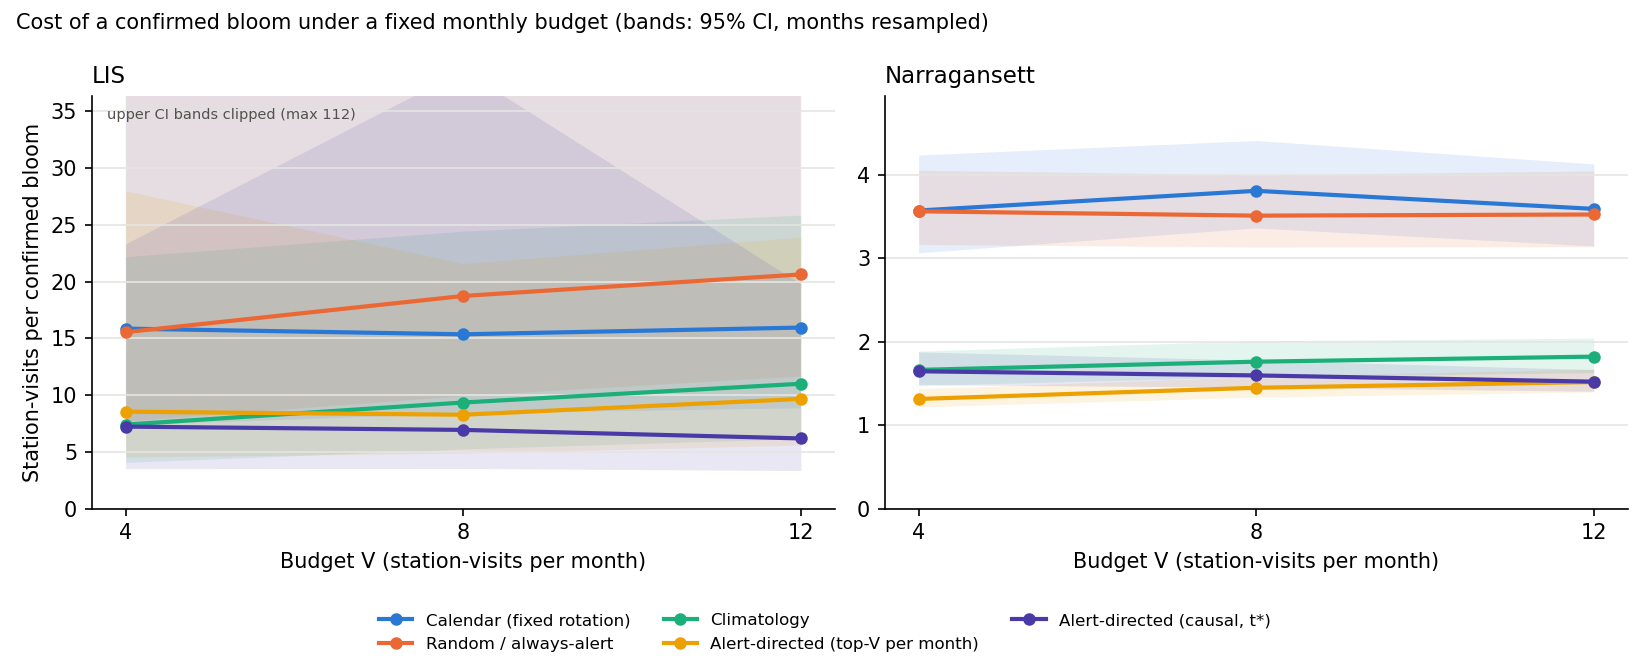
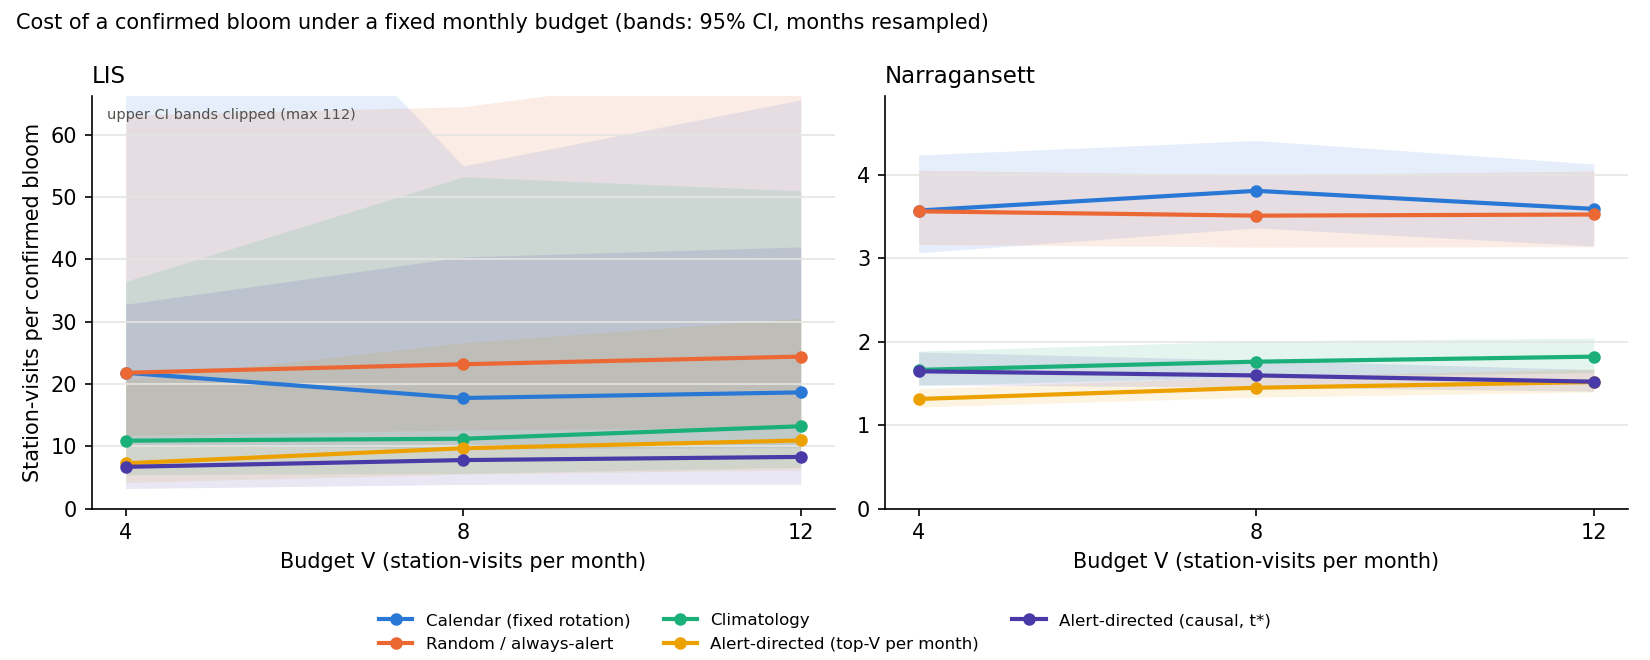
Make the lab-consistent label (S1) the default; re-run the README headline chain
locked_pipeline, final_evaluation_threshold_sweep, station_specific_models and
rolling_origin_cv now default to data/hab_features_tidal_S1.csv;
HAB_FEATURES_CSV=data/hab_features_tidal.csv reproduces the sensor label.
Gate: default AUC 0.8036 (31/65 TP), env run 0.8150. Old outputs archived to
data/archive_sensor_label/ (gitignored). Canonical figures regenerated.

Re-runs on S1: pooled 21-day rolling CV AUC 0.852 -> 0.772; frozen t*=0.35
POD 0.791, precision 0.114; the pre-registered POD>=0.8 rule now selects
t*=0.20 (left as an open decision; deploy keeps 0.35); point of no return
still absent (analogue peak 0.42). IEC method switched 10200H -> EPA 445.0 in
2017-18, before the 2020-25 transfer window. Prereg sections 14b and 15 (live
season: lab label, sensor inputs).

Claude-Session: https://claude.ai/code/session_019qugKZoFUV2rvdqeagrEFM

Changed region(s): [[0.0309, 0.2424, 0.4945, 0.7576], [0.0309, 0.1212, 0.34, 0.2727], [0.3709, 0.2727, 0.4945, 0.3333]]

diff --git a/src/models/locked_pipeline.py b/src/models/locked_pipeline.py
@@ -6,7 +6,8 @@ final_evaluation_threshold_sweep.py so that evaluation, deployment, and any
 future script share one implementation instead of copies.
 
 Locked spec:
-  data    : data/hab_features_tidal.csv
+  data    : data/hab_features_tidal_S1.csv (lab-consistent label, default since 2026-09-23;
+            the raw-fluorometer original is data/hab_features_tidal.csv)
             + percent_saturation merged from data/raw/deep_wq_extra/deep_wq_S_*.csv
             + max_gust_3d merged from data/gust_features_daily.csv (date-only join;
               regional wind signal, deliberately not per-station)
@@ -31,10 +32,11 @@ import pandas as pd
 from sklearn.linear_model import LogisticRegression
 from sklearn.preprocessing import StandardScaler
 
-# Label rebuild (notes/LABEL_REBUILD_PREREG.md): HAB_FEATURES_CSV points every locked
-# script at a rebuilt feature file, and HAB_OUT_TAG suffixes their outputs so the
-# canonical files are never overwritten. Unset, both leave everything unchanged.
-BASE_CSV = os.environ.get("HAB_FEATURES_CSV", "data/hab_features_tidal.csv")
+# Label rebuild (notes/LABEL_REBUILD_PREREG.md). Since 2026-09-23 the default input is the
+# lab-consistent S1 file written by src/models/label_rebuild.py. The original raw-fluorometer
+# file is reproducible with HAB_FEATURES_CSV=data/hab_features_tidal.csv; HAB_OUT_TAG
+# suffixes outputs so a non-default run never overwrites the canonical files.
+BASE_CSV = os.environ.get("HAB_FEATURES_CSV", "data/hab_features_tidal_S1.csv")
 OUT_TAG = os.environ.get("HAB_OUT_TAG", "")
 
 

diff --git a/src/deploy/daily_inference.py b/src/deploy/daily_inference.py
@@ -15,10 +15,14 @@ For a target date D:
      selected out-of-sample on 2020-2022; see warning_operating_point.py).
   5. Writes data/daily_predictions.csv for the dashboard.
 
-Operating characteristics at t*=0.35 (out-of-sample test 2023-2025):
-  POD 0.875 [0.750, 0.962] | FAR 0.875 | precision 0.125 [0.077, 0.172]
+Operating characteristics at t*=0.35 (out-of-sample test 2023-2025, lab-consistent
+label S1 since 2026-09-23; warning_robustness.py):
+  POD 0.791 [0.636, 0.906] | FAR 0.886 | precision 0.114 [0.063, 0.163]
 An alert means: sample this station within the next 3 weeks. Roughly 1 in
-8 alerts precedes a verified exceedance, a 2.7x lift over the base rate.
+9 alerts precedes a verified exceedance, a 2.7x lift over the 4.2% base rate.
+(On the original sensor label: POD 0.875, precision 0.125. Re-applying the
+pre-registered POD >= 0.8 selection rule on S1 picks t*=0.20, not 0.35; the
+frozen 0.35 is kept here pending that decision, see notes/LABEL_REBUILD_PREREG.md.)
 
 Aeration scoring from the previous version is intentionally omitted until
 the intervention framework rerun on corrected data is complete.

diff --git a/src/models/final_evaluation_threshold_sweep.py b/src/models/final_evaluation_threshold_sweep.py
@@ -38,8 +38,10 @@ _ap.add_argument('--preds-out', default=None,
                  help='where to dump per-row test predictions '
                       '(default data/test_predictions{tag}.csv)')
 # Label rebuild (notes/LABEL_REBUILD_PREREG.md). Defaults leave every path unchanged.
-_ap.add_argument('--input', default='data/hab_features_tidal.csv',
-                 help='feature file; the rebuilt series are data/hab_features_tidal_S*.csv')
+_ap.add_argument('--input',
+                 default=__import__('os').environ.get('HAB_FEATURES_CSV', 'data/hab_features_tidal_S1.csv'),
+                 help='feature file (default: lab-consistent S1; the raw-fluorometer original '
+                      'is data/hab_features_tidal.csv)')
 _ap.add_argument('--label-col', default=None,
                  help='use this prebuilt column as the label instead of bloom_28d (S3)')
 _ap.add_argument('--tag', default='',

diff --git a/src/models/rolling_origin_cv.py b/src/models/rolling_origin_cv.py
@@ -30,6 +30,7 @@ Run from repo root:
 
 import argparse
 import glob
+import os
 import warnings
 warnings.filterwarnings('ignore', category=UserWarning)
 
@@ -83,8 +84,11 @@ def load_percent_saturation():
 
 
 def build_dataset(clean_labels=False, sustain_window=14, horizon=28):
-    print("Loading data/hab_features_tidal.csv...")
-    df = pd.read_csv("data/hab_features_tidal.csv")
+    # Default: lab-consistent S1 (notes/LABEL_REBUILD_PREREG.md); the raw-fluorometer
+    # original is HAB_FEATURES_CSV=data/hab_features_tidal.csv.
+    src = os.environ.get("HAB_FEATURES_CSV", "data/hab_features_tidal_S1.csv")
+    print(f"Loading {src}...")
+    df = pd.read_csv(src)
     df['date'] = pd.to_datetime(df['date'])
 
     if 'percent_saturation' not in df.columns:

diff --git a/src/models/station_specific_models.py b/src/models/station_specific_models.py
@@ -44,9 +44,10 @@ FIXED_THRESH = 0.60
 # ---------------------------------------------------------------------------
 # 1. Load + merge sal_lag2/3/4
 # ---------------------------------------------------------------------------
-# Label rebuild: same switches as src/models/locked_pipeline.py (unset = unchanged)
+# Label rebuild: same switches as src/models/locked_pipeline.py. Default is the
+# lab-consistent S1 file; HAB_FEATURES_CSV=data/hab_features_tidal.csv gives the original.
 import os
-_IN = os.environ.get('HAB_FEATURES_CSV', 'data/hab_features_tidal.csv')
+_IN = os.environ.get('HAB_FEATURES_CSV', 'data/hab_features_tidal_S1.csv')
 _TAG = os.environ.get('HAB_OUT_TAG', '')
 print(f"Loading {_IN}...")
 df = pd.read_csv(_IN)

diff --git a/notes/LABEL_REBUILD_PREREG.md b/notes/LABEL_REBUILD_PREREG.md
@@ -326,3 +326,55 @@ climatology the model's point lift is now nearly equal (1.57 against 1.50, inter
 overlapping), and its AUC is now slightly *below* climatology's. Honest statement: the
 frozen model transfers to a second agency's lab record better than chance, and no better
 than a station-by-month calendar.
+
+## 14b. Defaults switched to S1, and the remaining re-runs (2026-09-23)
+
+**Defaults.** `locked_pipeline.py`, `final_evaluation_threshold_sweep.py`,
+`station_specific_models.py` and `rolling_origin_cv.py` now read
+`data/hab_features_tidal_S1.csv` by default. `HAB_FEATURES_CSV=data/hab_features_tidal.csv`
+reproduces the sensor label.
+
+- Gate: the default run gives AUC 0.8036 and 31 TP of 65 at 0.60 (S1). The env-var run gives
+  0.8150 (the original).
+- Every overwritten canonical output was first copied to `data/archive_sensor_label/` (36 files).
+- The canonical `reference_baselines`, `decision_value` and `lr_geometry_summary` are identical to
+  their `_S1` copies (max difference 0), and so is the IEC primary row (lift 1.571).
+
+| Result | Sensor label (archived) | S1 (now default) |
+|---|---|---|
+| **Rolling-origin CV, 21 d** (`rolling_origin_cv.py --horizon 21`), README headline | pooled AUC **0.852**, 4,040 rows / 156 events, 2015-2025 | pooled AUC **0.772**, 3,653 rows / 121 events, 2016-2025 (2015 fold skipped: too few validation positives) |
+| Rolling-origin CV, 28 d (default) | not comparable (the archived file came from a different run: 2,650 rows) | pooled AUC 0.717, 4,040 rows / 180 events |
+| **Frozen t*=0.35**, test 2023-25 (`warning_robustness.py`) | POD 0.875, precision 0.125 | POD **0.791** [0.636, 0.906], precision **0.114** [0.063, 0.163], FAR 0.886, 34 TP / 265 FP / 9 FN |
+| **Pre-registered selection rule** (highest t with CV-selection POD ≥ 0.8, `warning_operating_point.py --test-from-cv`) | t* = 0.35 | **t* = 0.20**; at 0.20 test POD 0.907, precision 0.072 |
+| Point of no return (`point_of_no_return.py`) | 617 pre-onset obs; analogue risk peak 0.62, median 0.04; model counterfactual 65% summer events locked → 0% | 544 obs / 153 events; analogue peak **0.42**, median 0.02; summer M1 counterfactual 42% → **0%** once physics moves. Conclusion unchanged, and stronger |
+| Daily inference | trains through the last labelled date | trains on 11,357 S1 rows (bloom rate 3.3%). Every station is stale on 2026-09-23 (newest visit 2025-08-28), so nothing is scored |
+
+**Open decision (for the user, not made here):** re-applying the pre-registered
+POD ≥ 0.8 rule on S1 moves t* from 0.35 to 0.20. `daily_inference.py` keeps the frozen
+0.35 until the user decides. Both are reported.
+
+**IEC lab change (K. O'Brien-Clayton, 2026-09-22).** From `data/iec_wqp_raw.csv`
+(`ResultAnalyticalMethod/MethodIdentifier`; `LaboratoryName` is blank): IEC chlorophyll
+used Standard Methods 10200H through 2016, both methods in 2017, and EPA 445.0 in every
+year 2018-2025. The primary transfer window (2020-2025) and the 2018-2025 variant sit
+entirely on EPA 445.0, so the change does not touch them. Only the secondary
+"1991-2017 summer-only" scenario spans it. No re-score is needed; this is noted beside
+that scenario.
+
+## 15. The live season: label from the lab, inputs from sensors (2026-09-23)
+
+- **The label is lab.** Every retrospective LIS evaluation uses the lab-consistent label (S1, with
+  S4 as the lab-only check).
+- **Real-time inputs are necessarily sensor inputs.** DEEP's lab chlorophyll arrives months after
+  sampling, so a forecast issued in season can't use it. The DEEP CTD fluorometer has sat at
+  0.80-1.31× the lab since 2016, so in-season sensor features are near lab scale. That is a
+  measured property of 2016-2024, not a guarantee.
+- **The prospective season is unaffected.** It is the fork's `src/deploy/prospective_forecast.py`:
+  the frozen Narragansett model on the LISICOS buoys (WLIS, EXRX), each site at its own frozen p75
+  from `data/prospective/site_p75.csv`. It never uses the DEEP CTD, so DEEP's advice doesn't
+  change its pre-registered scoring rule.
+- **Added now, before the season:** once DEEP lab samples from stations near the buoys exist
+  for the prospective window, report the share of buoy alerts followed within 7 days by a lab
+  exceedance (>10 µg/L) at the nearest DEEP station. It is secondary and descriptive, and never
+  replaces the primary score.
+- **Unchanged:** nothing is issued before ISEF Form 1A is signed.
